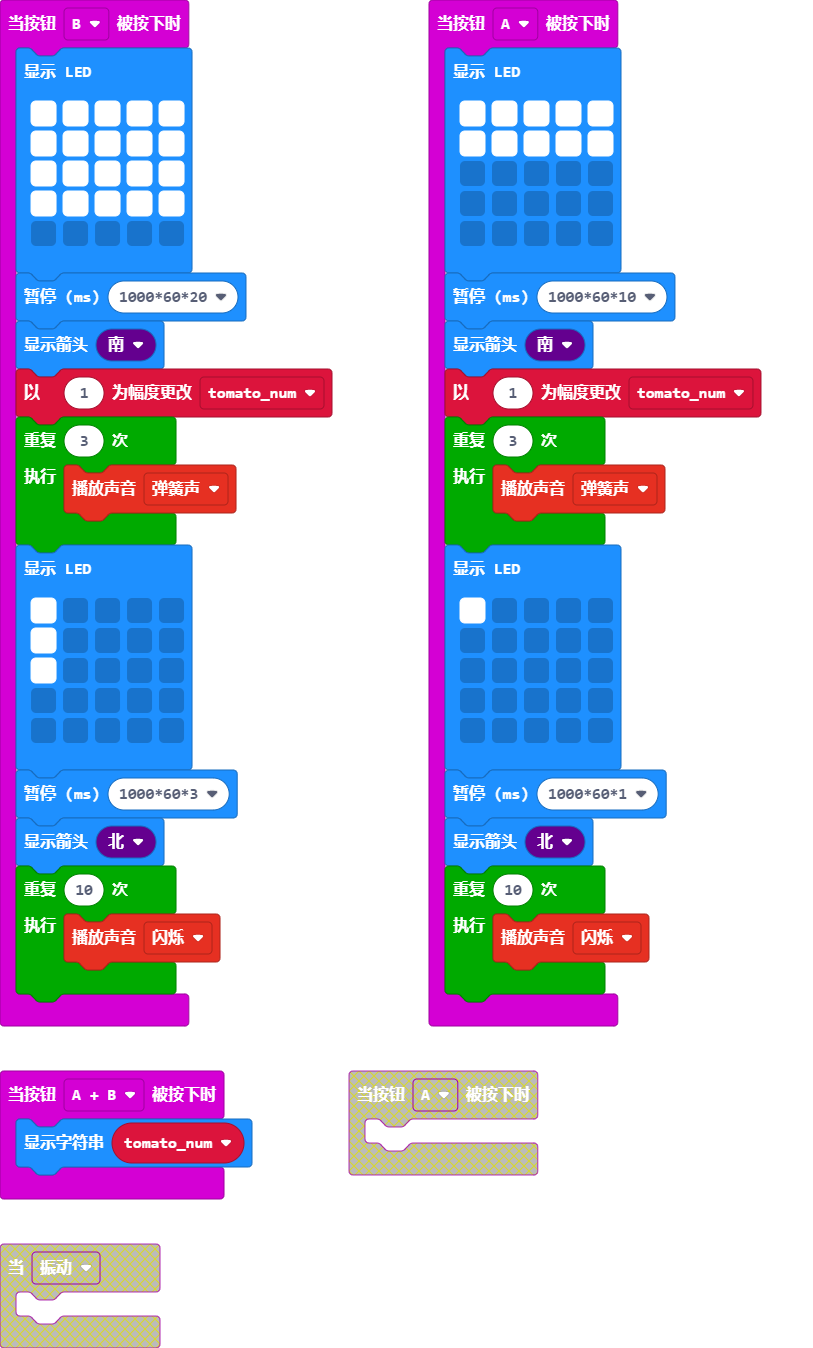
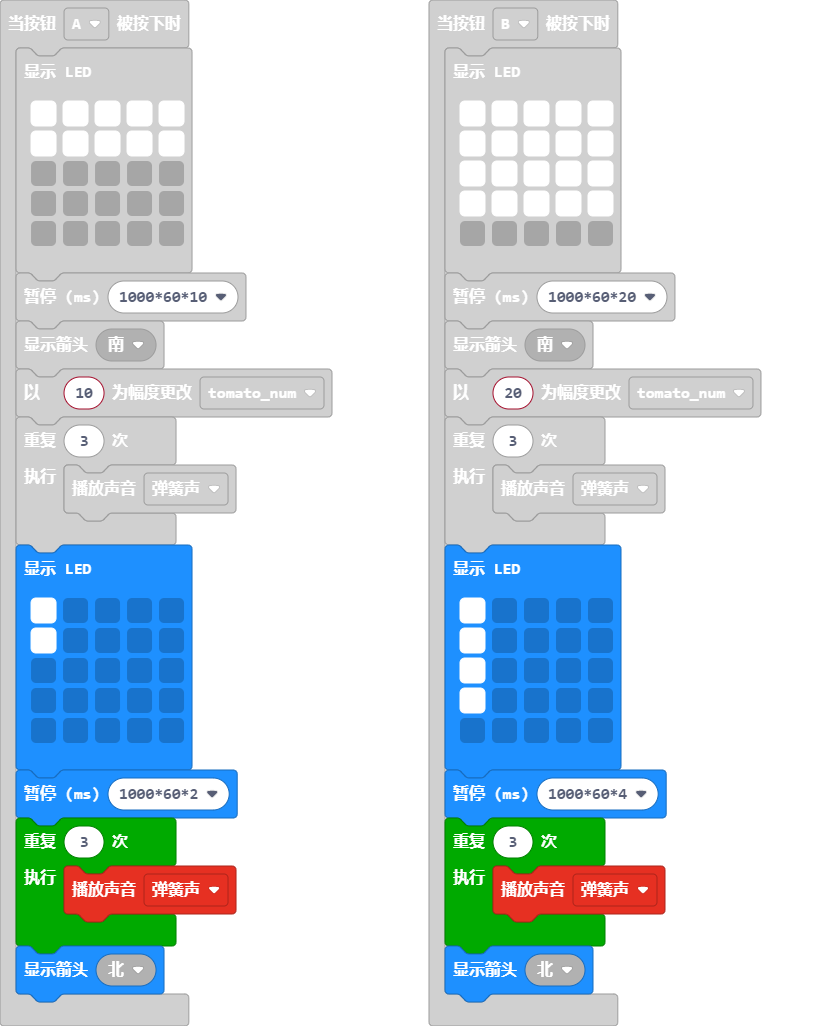
s

diff --git a/main.ts b/main.ts
@@ -11,22 +11,22 @@ input.onButtonPressed(Button.A, function () {
         `)
     basic.pause(1000*60*10)
     basic.showArrow(ArrowNames.South)
-    tomato_num += 1
+    tomato_num += 10
     for (let index = 0; index < 3; index++) {
         soundExpression.spring.play()
     }
     basic.showLeds(`
         # . . . .
-        . . . . .
+        # . . . .
         . . . . .
         . . . . .
         . . . . .
         `)
-    basic.pause(1000*60*1)
-    basic.showArrow(ArrowNames.North)
-    for (let index = 0; index < 10; index++) {
-        soundExpression.twinkle.play()
+    basic.pause(1000*60*2)
+    for (let index = 0; index < 3; index++) {
+        soundExpression.spring.play()
     }
+    basic.showArrow(ArrowNames.North)
 })
 input.onButtonPressed(Button.AB, function () {
     basic.showString("" + (tomato_num))
@@ -41,7 +41,7 @@ input.onButtonPressed(Button.B, function () {
         `)
     basic.pause(1000*60*20)
     basic.showArrow(ArrowNames.South)
-    tomato_num += 1
+    tomato_num += 20
     for (let index = 0; index < 3; index++) {
         soundExpression.spring.play()
     }
@@ -49,14 +49,14 @@ input.onButtonPressed(Button.B, function () {
         # . . . .
         # . . . .
         # . . . .
-        . . . . .
+        # . . . .
         . . . . .
         `)
-    basic.pause(1000*60*3)
-    basic.showArrow(ArrowNames.North)
-    for (let index = 0; index < 10; index++) {
-        soundExpression.twinkle.play()
+    basic.pause(1000*60*4)
+    for (let index = 0; index < 3; index++) {
+        soundExpression.spring.play()
     }
+    basic.showArrow(ArrowNames.North)
 })
 let tomato_num = 0
 tomato_num = 0
